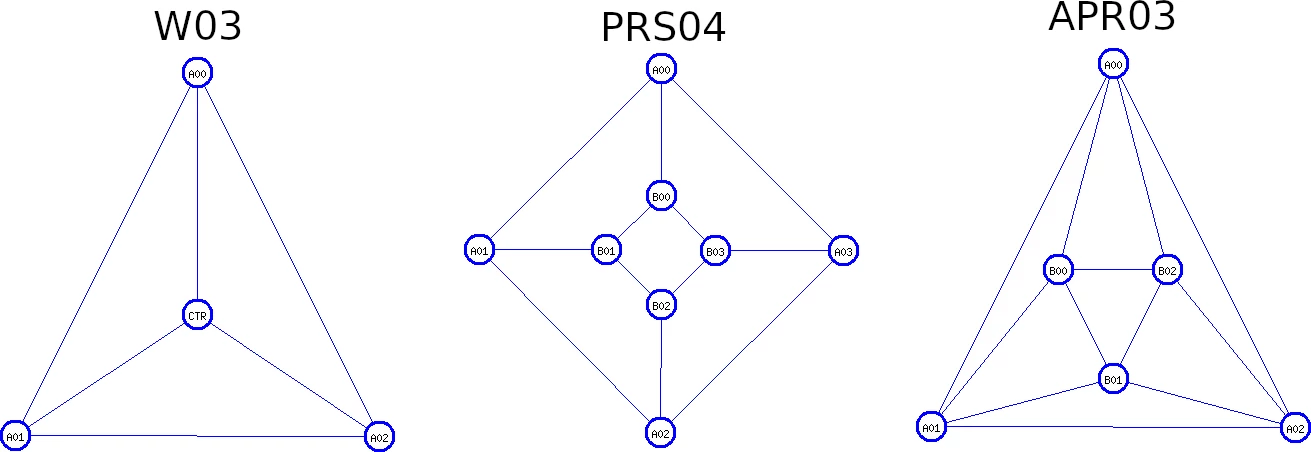
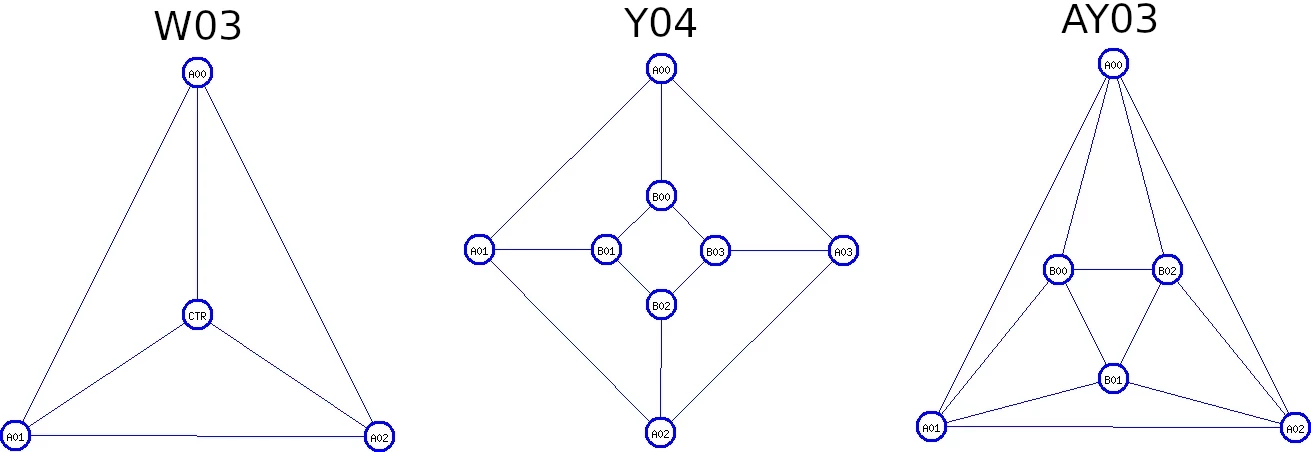
For prism graphs, the standard notation is "Y", not "PRS" (see Wolfram website).
And for antiprism graphs, I have adopted a notation which reminds us of the
prism standard notation.

diff --git a/doc/Hamilton.fr.md b/doc/Hamilton.fr.md
@@ -3326,14 +3326,18 @@ Le progamme `init-elem.raku` permet de créer une série de graphes
 * le graphe en roue W _n_ à _n_+1 sommets et 2 × _n_ arcs (_n_ pour la
 jante et _n_ pour les rayons),
 
-* le graphe prisme PRS _n_ à 2 × _n_ sommets et 3 × _n_ arcs, représentant un
+* le graphe prisme Y _n_ à 2 × _n_ sommets et 3 × _n_ arcs, représentant un
 [prisme  géométrique](https://mathcurve.com/polyedres/prisme/prisme.shtml)
 dont les  deux bases  sont des polygones  à _n_ côtés,
 
-* le graphe  antiprisme APR _n_  à 2  × _n_ sommets  et 4 ×  _n_ arcs,
+* le graphe  antiprisme AY _n_  à 2  × _n_ sommets  et 4 ×  _n_ arcs,
 représentant un
 [antiprisme géométrique](https://mathcurve.com/polyedres/prisme/antiprisme.shtml)
-dont  les deux bases  sont des polygones à _n_ côtés,
+dont les deux bases sont des polygones à _n_ côtés. La notation « AY »
+n'est  pas  une  notation  standard. C'est  une  notation  personnelle
+destinée à rappeler la notation standard « Y » donnée sur le
+[site web de Wolfram](https://mathworld.wolfram.com/AntiprismGraph.html)
+pour les  graphes de prisme.
 
 Voici les graphes obtenus pour _n_ valant 5 :
 
@@ -3351,8 +3355,8 @@ pas souhaitable que l'écart entre le max et le min de la latitude soit
 La génération de certains graphes élémentaires permet de retrouver des
 graphes connus. Ainsi, le graphe `W03` (roue à 3 rayons) est également
 le  graphe  `K04`  (graphe  complet  à  4  sommets)  ou  le  tétraèdre
-platonicien. Également, le graphe `PRS04` est  ni plus ni moins que le
-cube (ou hexaèdre) et l'antiprisme `APR03` est l'octaèdre.
+platonicien. Également,  le graphe `Y04` est  ni plus ni moins  que le
+cube (ou hexaèdre) et l'antiprisme `AY03` est l'octaèdre.
 
 ![Graphes élémentaire particuliers](Special-graphs.webp)
 

diff --git a/doc/Hamilton.en.md b/doc/Hamilton.en.md
@@ -3179,14 +3179,16 @@ _n_-sided polygon,
 the spokes and _n_ edges for the rim),
 
 * [prism graph](https://mathworld.wolfram.com/PrismGraph.html)
-PRS _n_, with 2 × _n_ nodes and 3 × _n_ edges, representing a
+Y _n_, with 2 × _n_ nodes and 3 × _n_ edges, representing a
 [geometrical prism](https://mathworld.wolfram.com/Prism.html)
 in which both bases are _n_-sided polygons,
 
 * [antiprism graph](https://mathworld.wolfram.com/AntiprismGraph.html)
-APR _n_, with 2 × _n_ nodes and 4 × _n_ edges, representing a
+AY _n_, with 2 × _n_ nodes and 4 × _n_ edges, representing a
 [geometrical antiprism](https://mathworld.wolfram.com/Antiprism.html)
-in which both bases are _n_-sided polygons,
+in which  both bases are  _n_-sided polygons.  "AY" is not  a standard
+notation, it is a personal extension  to the "Y" standard notation for
+prism graphs.
 
 Here are the graphs generated with _n_ = 5:
 
@@ -3205,8 +3207,8 @@ prevent a zero-by-zero division.
 
 Generating some graphs  allows us to find some  well-known graphs. For
 example, the `W03` wheel graph is  similar to the `K04` complete graph
-and to  the tetrahedron graph. Also,  graph `PRS04` is similar  to the
-geometrical  cube (aka  hexahedron) and  graph `APR03`  is similar  to
+and to  the tetrahedron  graph. Also,  graph `Y04`  is similar  to the
+geometrical  cube (aka  hexahedron)  and graph  `AY03`  is similar  to
 octahedron.
 
 ![Special elementary Graphs](Special-graphs.webp)
